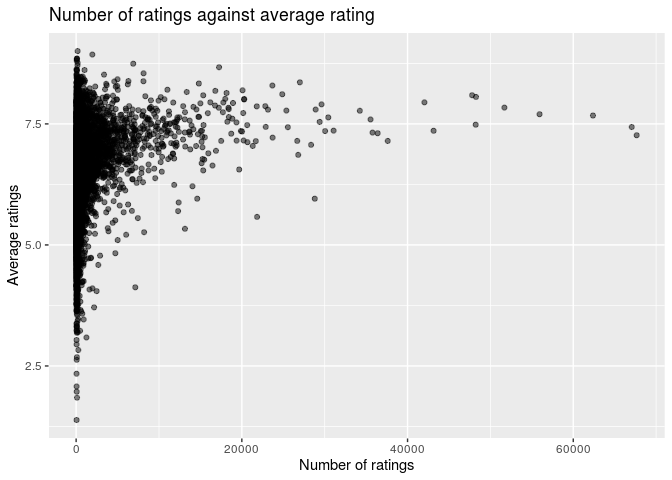
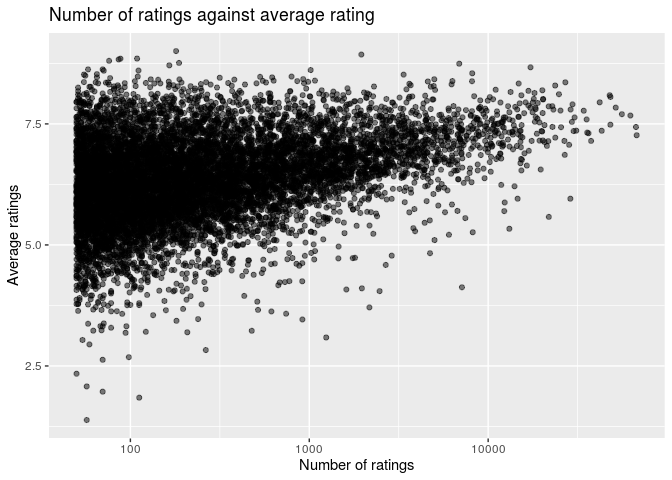
Changing a graph to a log(x) vs y

diff --git a/proposal/proposal.md b/proposal/proposal.md
@@ -203,6 +203,7 @@ Plotting the number of ratings against the average rating of each game:
 board_games_splitcats %>%
  ggplot() +
  geom_point(aes(x = users_rated, y = average_rating), alpha = 0.5) +
+  scale_x_log10() +
  labs(
  x = "Number of ratings",
  y = "Average ratings",
